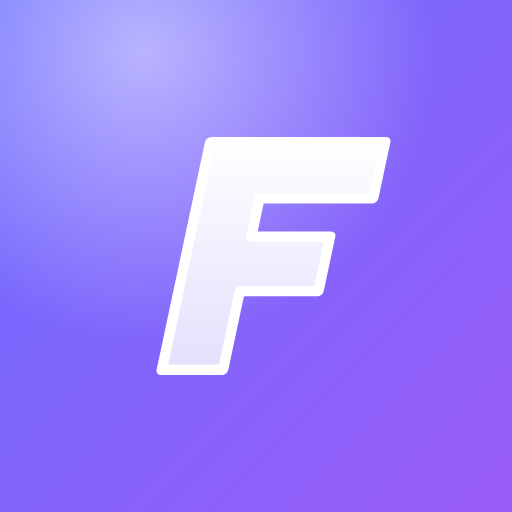
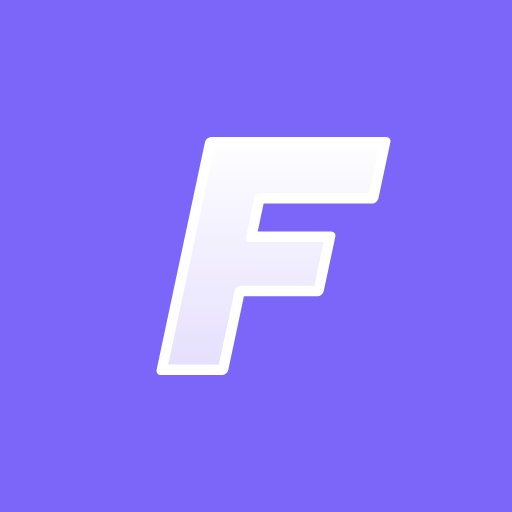
Polish ported design: login card, field styling, settings attribution, CSP-safe fonts
- Login screen on a glass card with the new logo; softer focus ring on fields
- Total card gets a soft colored accent
- Maskable PWA icon has a solid background (e2e requirement)
- Fonts always emitted as files (CSP font-src 'self' blocks data: URIs)
- Attribution for Solar/Lucide/Manrope in settings and README

Claude-Session: https://claude.ai/code/session_018cdtfKnzdWm9kJF9i3c7EU

Changed region(s): [[0.0, 0.0, 0.6875, 0.5], [0.75, 0.75, 1.0, 1.0]]

diff --git a/src/features/settings/SettingsPage.tsx b/src/features/settings/SettingsPage.tsx
@@ -1,3 +1,4 @@
+import { Glyph } from '@/components/Glyph';
 import { Link } from 'react-router-dom';
 import { useAuth } from '@/auth/AuthProvider';
 import { Card } from '@/components/Card';
@@ -27,9 +28,7 @@ export default function SettingsPage() {
           to="/settings/categories"
           className="flex min-h-[56px] items-center gap-3 rounded-2xl px-4 py-2 transition-colors hover:bg-surface-2 active:bg-border/60"
         >
-          <span className="flex h-10 w-10 shrink-0 items-center justify-center text-xl" aria-hidden="true">
-            🏷
-          </span>
+          <Glyph value="i:tag" color="#4f46e5" size={40} />
           <span className="min-w-0 flex-1 text-base font-medium">Категории</span>
           <Icon name="chevron" size={18} className="shrink-0 text-muted" />
         </Link>
@@ -48,6 +47,7 @@ export default function SettingsPage() {
       <SettingsSection title="О приложении">
         <p>Finora — личный учёт денег. Версия {version}.</p>
         <p className="text-sm text-muted">{cloud ? 'Режим: с облаком (данные синхронизируются).' : 'Режим: только на этом устройстве.'}</p>
+        <p className="text-xs text-muted">Иконки: Solar (CC BY 4.0) и Lucide (ISC). Шрифт: Manrope (SIL OFL).</p>
       </SettingsSection>
     </>
   );

diff --git a/src/features/auth/LoginPage.tsx b/src/features/auth/LoginPage.tsx
@@ -33,7 +33,8 @@ export default function LoginPage() {
 
   return (
     <main className="mx-auto flex min-h-dvh max-w-sm flex-col items-center justify-center px-4 pb-[env(safe-area-inset-bottom)] pt-[env(safe-area-inset-top)]">
-      <Logo size={64} />
+      <div className="flex w-full animate-rise flex-col items-center rounded-[2rem] border border-border/70 bg-surface/70 p-6 shadow-card backdrop-blur-xl">
+      <Logo size={72} className="drop-shadow-[0_14px_18px_rgb(var(--brand)/0.4)]" />
       <h1 className="mt-4 text-2xl font-bold tracking-tight">Вход</h1>
       <p className="mt-1 text-center text-muted">Finora — учёт денег. Войдите, чтобы открыть свои записи.</p>
 
@@ -93,6 +94,7 @@ export default function LoginPage() {
       <p className="mt-6 text-center text-sm text-muted">
         Аккаунты создаёт владелец приложения. Если у вас нет почты и пароля — попросите его.
       </p>
+      </div>
     </main>
   );
 }

diff --git a/src/features/home/HomePage.tsx b/src/features/home/HomePage.tsx
@@ -89,7 +89,10 @@ export default function HomePage() {
       <InstallHint className="mb-2" />
       <PageHeader title="Главная" className={HEADER_CLASS} />
       <div className="flex flex-col gap-3 md:gap-6">
-        <Card aria-label="Всего денег" data-testid="home-total" className="!py-3 md:!py-4">
+        <Card aria-label="Всего денег" data-testid="home-total" className="relative overflow-hidden !py-3 md:!py-4">
+          {/* Декор: два мягких цветных круга (не мешают тексту и касаниям). */}
+          <span aria-hidden="true" className="pointer-events-none absolute -right-10 -top-14 h-44 w-44 rounded-full bg-gradient-to-br from-brand/25 to-accent/20 blur-2xl" />
+          <span aria-hidden="true" className="pointer-events-none absolute -bottom-16 right-16 h-36 w-36 rounded-full bg-accent/15 blur-2xl" />
           <p className="text-sm text-muted">Всего</p>
           {total ? (
             <>

diff --git a/src/App.test.tsx b/src/App.test.tsx
@@ -59,7 +59,7 @@ describe('навигация', () => {
   it('нижняя панель телефона: Главная, Операции, «+», Кошельки, Ещё', async () => {
     renderAt('/');
     await findByRole('heading', { name: 'Главная', level: 1 });
-    const bottom = screen.getAllByRole('navigation', { name: 'Основная навигация' }).find((n) => n.className.includes('bottom-0'));
+    const bottom = screen.getAllByRole('navigation', { name: 'Основная навигация' }).find((n) => n.className.includes('fixed') && n.className.includes('bottom-'));
     expect(bottom).toBeDefined();
     const labels = Array.from((bottom as HTMLElement).querySelectorAll('a')).map((a) => a.getAttribute('aria-label') ?? a.textContent);
     expect(labels).toEqual(['Главная', 'Операции', 'Добавить операцию', 'Кошельки', 'Ещё']);

diff --git a/src/components/Field.tsx b/src/components/Field.tsx
@@ -39,8 +39,8 @@ export function Field({ id, label, hint, error, className, children }: FieldProp
 /** Общий вид полей: ≥ 44px по высоте, шрифт 16px (иначе iOS приближает страницу), рамка с контрастом ≥ 3:1. */
 export function inputClasses(invalid: boolean): string {
   return cn(
-    'w-full rounded-xl border bg-surface px-3.5 text-base text-text placeholder:text-muted/80',
-    'transition-colors focus:outline-none focus:ring-2 focus:ring-brand/40 disabled:opacity-60',
+    'w-full rounded-2xl border bg-surface/80 px-3.5 text-base text-text placeholder:text-muted/80',
+    'transition duration-200 focus:outline-none focus:ring-4 focus:ring-brand/20 disabled:opacity-60',
     invalid ? 'border-danger' : 'border-border-strong focus:border-brand',
   );
 }

diff --git a/vite.config.ts b/vite.config.ts
@@ -102,6 +102,8 @@ export default defineConfig({
   ],
   build: {
     target: 'es2022',
+    // Шрифты — всегда отдельными файлами: политика безопасности (font-src 'self') не пускает шрифты, встроенные в CSS как data:.
+    assetsInlineLimit: (file) => (file.endsWith('.woff2') ? false : undefined),
     sourcemap: false,
     rollupOptions: {
       output: {

diff --git a/README.md b/README.md
@@ -178,6 +178,13 @@ Safari на iPhone может очистить данные сайта, кото
 - Настройки → «Хранилище» → «Защитить данные от очистки», если кнопка есть.
 - Настройки → «Проверка данных» ищет операции, которые не попадают в остатки (неверная сумма, нет кошелька). Она ничего не меняет.
 
+## Оформление и лицензии
+
+- «Стеклянная» сине-фиолетовая тема (светлая и тёмная по настройке устройства). Цвета заданы токенами в `src/index.css`, контраст текста не ниже WCAG AA.
+- Шрифт Manrope (SIL OFL) лежит в `src/assets/fonts/`, иконки Solar (480 Design, CC BY 4.0) и Lucide (ISC) вшиты в `src/components/iconData.ts` — всё работает без интернета. Файл создаётся скриптом `scripts/gen-icons.cjs`.
+- Значок категории или кошелька (поле `icon`) бывает «i:имя» (встроенная иконка), «b:банк» (знак банка Алиф, Душанбе Сити или Хумо; список — `src/features/wallets/banks.ts`) или эмодзи из прежних записей: известные эмодзи показываются подходящей иконкой, данные не меняются. Знаки банков нарисованы упрощённо, это не официальные логотипы.
+- Шрифты при сборке всегда остаются отдельными файлами (`assetsInlineLimit` в `vite.config.ts`): политика безопасности не разрешает шрифты, встроенные в CSS.
+
 ## Известные ограничения
 
 - **Правки одной записи на двух устройствах объединяются по частям.** Запись делится на независимые части: у операции это «деньги» (сумма, кошелёк, вид, категория, курс — они всегда едут вместе, чтобы не получилась несогласованная запись), «дата», «заметка» и «удаление». Если на телефоне без сети исправили сумму, а на компьютере поменяли заметку, после синхронизации сохранятся **обе** правки, на обоих устройствах. Если же на двух устройствах правили **одну и ту же часть** (например, обе меняли сумму), остаётся правка, сделанная позже. Проверено на моделях и сервере в памяти (см. «Облако проверено…» ниже). Не закрыто: если часы телефона спешат больше чем на 5 минут и ответ сервера при этом потерялся, правка в редком случае может не доехать, поэтому следите, чтобы на устройствах стояло автоматическое время. Чтобы отправка «вслепую» не затёрла чужую правку, которую другое устройство успело записать между получением и отправкой, каждая отправка несёт номер версии записи на сервере (`base_seq`): если там уже записали другое, сервер отвергает всю пачку, а устройство забирает свежее, объединяет по частям и отправляет заново. Для этого в Supabase должна быть актуальная схема (нужно заново выполнить `supabase/schema.sql`); без колонки `base_seq` приложение продолжает работать по-старому, без этой защиты.
